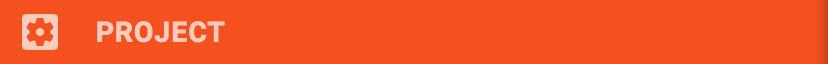
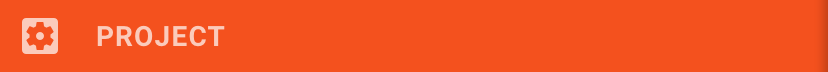
Fix tabs and sidebar heading
Related issue https://github.com/equinusocio/material-theme/issues/620

diff --git a/src/components/options.js b/src/components/options.js
@@ -4,14 +4,23 @@
 
   {
     "class": "sidebar_container",
-    "settings": ["material_theme_small_tab"],
+    "settings": ["material_theme_small_tab", "enable_tab_scrolling"],
     "layer0.tint": [0, 150, 136],
     "layer0.inner_margin": [0, 32, 0, 0],
     "layer1.texture": "Material Theme - Appbar/assets/teal/sidebar_heading--small.png",
     "layer1.opacity": 1.0,
-    "layer1.inner_margin": [130, 32, 14, 0],
-    "content_margin": [0, 32, 0, 0]
+    "layer1.inner_margin": [130, 36, 14, 0],
+    "content_margin": [0, 36, 0, 0]
   },
+
+  {
+    "class": "sidebar_container",
+    "settings": ["material_theme_small_tab", "!enable_tab_scrolling"],
+    "layer1.texture": "Material Theme - Appbar/assets/teal/sidebar_heading--small.png",
+    "layer1.inner_margin": [130, 36, 14, 0],
+    "content_margin": [0, 36, 0, 0]
+  },
+
 
   {
     "class": "sidebar_heading",
